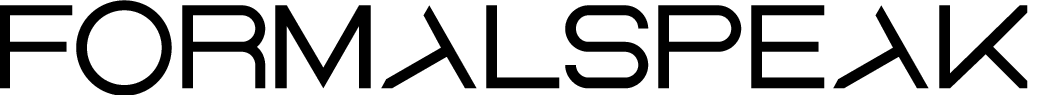
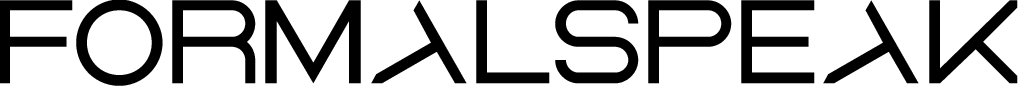
o size

diff --git a/kludge/capital-o.tex b/kludge/capital-o.tex
@@ -1,39 +1,14 @@
-% Formalspeak © 2019 Kaoru Kawamukai <bydriv@gmail.com>
-%
-% Formalspeak is free software: you can redistribute it and/or modify
-% it under the terms of the GNU General Public License as published by
-% the Free Software Foundation, either version 3 of the License, or
-% (at your option) any later version.
-%
-% Formalspeak is distributed in the hope that it will be useful,
-% but WITHOUT ANY WARRANTY; without even the implied warranty of
-% MERCHANTABILITY or FITNESS FOR A PARTICULAR PURPOSE.  See the
-% GNU General Public License for more details.
-%
-% You should have received a copy of the GNU General Public License
-% along with Formalspeak.  If not, see <http://www.gnu.org/licenses/>.
-%
-% As a special exception, if you create a document which uses this font,
-% and embed this font or unaltered portions of this font into the document,
-% this font does not by itself cause the resulting document to be covered by
-% the GNU General Public License. This exception does not however invalidate
-% any other reasons why the document might be covered by the GNU General Public License.
-%
-% If you modify this font, you may extend this exception to your version of the font,
-% but you are not obligated to do so. If you do not wish to do so, delete this exception
-% statement from your version.
-
 \documentclass{standalone}%
 \usepackage{tikz}%
 \begin{document}%
 \begin{tikzpicture}%
   \fill%
-  (0, 2.0207cm) arc (90:270:2.0207cm)%
-  -- (0, -1.5832cm) arc (270:90:1.5832cm)%
+  (0, 1.8117cm) arc (90:270:1.8117cm)%
+  -- (0, -1.3742cm) arc (270:90:1.3742cm)%
   -- cycle;%
   \fill%
-  (0, -2.0207cm) arc (-90:90:2.0207cm)%
-  -- (0, 1.5832cm) arc (90:-90:1.5832cm)%
+  (0, -1.8117cm) arc (-90:90:1.8117cm)%
+  -- (0, 1.3742cm) arc (90:-90:1.3742cm)%
   -- cycle;%
 \end{tikzpicture}%
 \end{document}%
